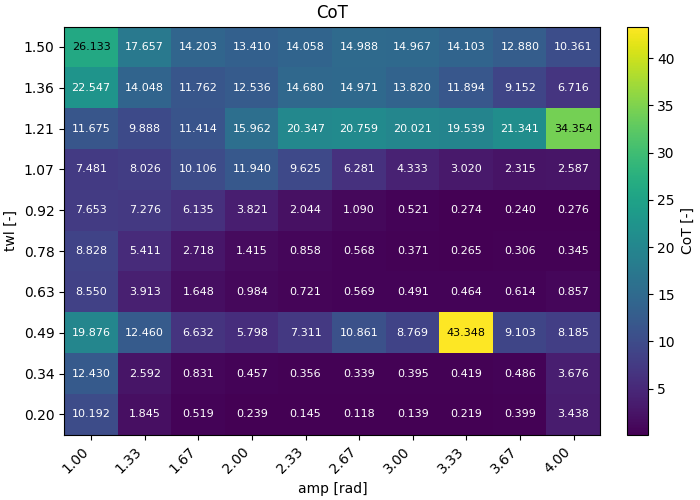
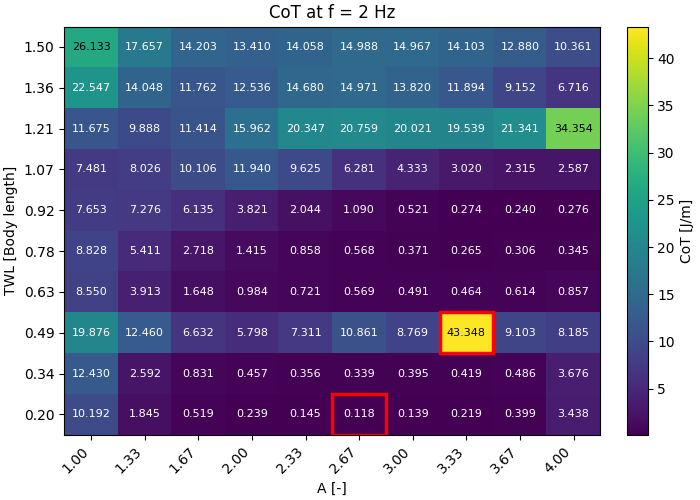
did a minor change in CPG controller to do the grid search and thus did some change in 2.1 and 2.2 and imporved the CoT calculation

diff --git a/Project1/Python/exercise2_2.py b/Project1/Python/exercise2_2.py
@@ -6,10 +6,12 @@ import h5py
 import numpy as np
 import matplotlib.pyplot as plt
 from matplotlib import colors
+from matplotlib.patches import Rectangle
 
 from farms_core import pylog
 
 from cmc_controllers.metrics import (
+    get_filtered_signals,
     compute_mechanical_energy_and_cot,
     compute_mechanical_speed,
     compute_trajectory_curvature,
@@ -54,8 +56,9 @@ def load_metrics_from_hdf5(hdf5_path):
     #added by Matt
     CoM_traj = links_positions.mean(axis=1)
     timestep = sim_times[1]-sim_times[0]
+    CoM_traj_filtered = get_filtered_signals(CoM_traj, signal_dt=timestep, fcut_lp=0.5)
     
-    curvature_mean = compute_trajectory_curvature(trajectory=CoM_traj, timestep=timestep)
+    curvature_mean = compute_trajectory_curvature(trajectory=CoM_traj_filtered, timestep=timestep)
 
     return speed_forward, speed_lateral, cot, CoM_traj, curvature_mean
 
@@ -98,13 +101,13 @@ def exercise2_2(**kwargs):
     }
     
 
-    '''run_multiple(
+    run_multiple(
         max_workers=MAX_WORKERS,
         controller=base_controller,
         base_path=BASE_PATH,
         parameter_grid=parameter_grid_example,
         common_kwargs={'fast': True, 'headless': True},
-    )'''
+    )
     
     drive_range_2 = np.linspace(2.0,4.0,9)
     parameter_grid_example_2 = {
@@ -112,13 +115,13 @@ def exercise2_2(**kwargs):
         'drive_left': drive_range_2
     }
     
-    '''run_multiple(
+    run_multiple(
         max_workers=MAX_WORKERS,
         controller=base_controller,
         base_path=BASE_PATH,
         parameter_grid=parameter_grid_example_2,
         common_kwargs={'fast': True, 'headless': True},
-    )'''
+    )
 
     plot = kwargs.pop('plot', False)
     if plot:
@@ -160,7 +163,7 @@ def exercise2_2(**kwargs):
         # ---- Heatmaps (same palette + value in each square) ----
         shared_cmap = "viridis"
 
-        def plot_annotated_heatmap(grid, x_vals, y_vals, title, xlabel, ylabel, cbar_label, fmt=".3f"):
+        def plot_annotated_heatmap(grid, x_vals, y_vals, title, xlabel, ylabel, cbar_label, fmt=".3f", frame_abs_min=False):
             fig, ax = plt.subplots(figsize=(7, 6), constrained_layout=True)
             im = ax.imshow(grid, origin="lower", aspect="auto", cmap=shared_cmap)
 
@@ -179,6 +182,27 @@ def exercise2_2(**kwargs):
                     val = grid[i, j]
                     txt_color = "white" if norm(val) < 0.6 else "black"
                     ax.text(j, i, format(val, fmt), ha="center", va="center", color=txt_color, fontsize=8)
+
+            # Frame lowest and highest values
+            min_idx = np.unravel_index(np.nanargmin(grid), grid.shape)
+            max_idx = np.unravel_index(np.nanargmax(grid), grid.shape)
+
+            ax.add_patch(Rectangle(
+                (min_idx[1] - 0.5, min_idx[0] - 0.5), 1, 1,
+                fill=False, edgecolor="red", linewidth=2.5
+            ))
+            ax.add_patch(Rectangle(
+                (max_idx[1] - 0.5, max_idx[0] - 0.5), 1, 1,
+                fill=False, edgecolor="red", linewidth=2.5
+            ))
+
+            # Frame lowest absolute value if requested
+            if frame_abs_min:
+                abs_min_idx = np.unravel_index(np.nanargmin(np.abs(grid)), grid.shape)
+                ax.add_patch(Rectangle(
+                    (abs_min_idx[1] - 0.5, abs_min_idx[0] - 0.5), 1, 1,
+                    fill=False, edgecolor="red", linewidth=2.5
+                ))
 
             cbar = fig.colorbar(im, ax=ax)
             cbar.set_label(cbar_label)
@@ -204,10 +228,10 @@ def exercise2_2(**kwargs):
             cot_grid,
             x_vals=unique_PL,
             y_vals=unique_drive,
-            title="Cost of Transport [-]",
+            title="Cost of Transport [J/m]",
             xlabel="phase lag [rad]",
             ylabel="drive [-]",
-            cbar_label="CoT [-]",
+            cbar_label="CoT [J/m]",
             fmt=".3f",
         )
 
@@ -221,11 +245,12 @@ def exercise2_2(**kwargs):
             mean_curvature_grid,
             x_vals=unique_drive_left,
             y_vals=unique_drive_right,
-            title="Mean curvature [1/m]",
+            title=r"Mean curvature [$m^{-1}$]",
             xlabel="drive left [-]",
             ylabel="drive right [-]",
-            cbar_label="mean curvature [1/m]",
+            cbar_label=r"Mean curvature [$m^{-1}$]",
             fmt=".3f",
+            frame_abs_min=True,
         )
 
         # Grid of CoM trajectories (one subplot per drive_right/drive_left pair)
@@ -257,7 +282,7 @@ def exercise2_2(**kwargs):
         for j in range(len(unique_drive_right), 9):
             axes[j].axis("off")
 
-        fig3.suptitle("CoM trajectories grouped by drive right (x,y in [m])", y=1.02)
+        fig3.suptitle("CoM trajectories grouped by drive right (x,y in [m])", y=0.98)
         plt.tight_layout()
 
         plt.show()

diff --git a/Project1/Python/exercise1_2.py b/Project1/Python/exercise1_2.py
@@ -7,6 +7,7 @@ import numpy as np
 import h5py
 import matplotlib.pyplot as plt
 import matplotlib.colors as colors
+from matplotlib.patches import Rectangle
 
 from farms_core import pylog
 
@@ -168,8 +169,8 @@ def exercise1_2(**kwargs):
         im = ax.imshow(grid, origin='lower', aspect='auto', cmap=cmap)
 
         ax.set_title(title)
-        ax.set_xlabel('amp [rad]')
-        ax.set_ylabel('twl [-]')
+        ax.set_xlabel('A [-]')
+        ax.set_ylabel('TWL [Body length]')
 
         # Show actual parameter values on axes
         ax.set_xticks(np.arange(len(amp_axis)))
@@ -186,17 +187,34 @@ def exercise1_2(**kwargs):
                 ax.text(j, i, format(val, value_fmt),
                         ha='center', va='center', color=txt_color, fontsize=8)
 
+        # Frame lowest and highest values
+        min_idx = np.unravel_index(np.nanargmin(grid), grid.shape)
+        max_idx = np.unravel_index(np.nanargmax(grid), grid.shape)
+
+        ax.add_patch(Rectangle(
+            (min_idx[1] - 0.5, min_idx[0] - 0.5), 1, 1,
+            fill=False, edgecolor='red', linewidth=2.5
+        ))
+        ax.add_patch(Rectangle(
+            (max_idx[1] - 0.5, max_idx[0] - 0.5), 1, 1,
+            fill=False, edgecolor='red', linewidth=2.5
+        ))
+
         cbar = fig.colorbar(im, ax=ax)
         cbar.set_label(cbar_label)
 
     plot_annotated_heatmap(
-        forward_speed_grid, 'Forward speed', shared_cmap, 'speed [m/s]', value_fmt=".3f"
+        forward_speed_grid, 'Forward speed at f = 2 Hz', shared_cmap, 'Forward speed [m/s]', value_fmt=".3f"
     )
     plot_annotated_heatmap(
-        cot_grid, 'CoT', shared_cmap, 'CoT [-]', value_fmt=".3f"
+        cot_grid, 'CoT at f = 2 Hz', shared_cmap, 'CoT [J/m]', value_fmt=".3f"
     )
     plot_annotated_heatmap(
-        ipls_grid, 'Average IPLS', shared_cmap, 'IPLS [rad]', value_fmt=".3f"
+        ipls_grid,
+        r'Average $IPL_{neur}$ at f = 2 Hz',
+        shared_cmap,
+        r'Average $IPL_{neur}$ [rad]',
+        value_fmt=".3f"
     )
 
     plt.show()

diff --git a/Project1/Python/cmc_controllers/metrics.py b/Project1/Python/cmc_controllers/metrics.py
@@ -336,8 +336,8 @@ def compute_mechanical_energy_and_cot(times: np.ndarray,
     dt = times[1]-times[0]  # we assume that the dt is constant, which is ok
     Power = np.maximum(joints_torques * joints_velocities, 0)
     energy = dt * np.sum(Power)
-    com_final = np.sum(links_positions[-1, :, 0] * LINKS_MASSES) / TOTAL_MASS
-    com_initial = np.sum(links_positions[0, :, 0] * LINKS_MASSES) / TOTAL_MASS
-    Dfwd = np.abs(com_final - com_initial)
+    com_final = np.sum(links_positions[-1, :, :2] * LINKS_MASSES[:, None], axis=0) / TOTAL_MASS
+    com_initial = np.sum(links_positions[0, :, :2] * LINKS_MASSES[:, None], axis=0) / TOTAL_MASS
+    Dfwd = np.linalg.norm(com_final - com_initial)
     cot = energy / Dfwd if Dfwd > 0 else np.inf
     return energy, cot

diff --git a/Project1/Python/cmc_controllers/CPG_controller.py b/Project1/Python/cmc_controllers/CPG_controller.py
@@ -122,7 +122,7 @@ class CPGNetwork(NeuralNetwork):
             self.nominal_frequencies[1:self.n_oscillators:2] = 0
             self.nominal_amplitudes[1:self.n_oscillators:2] = 0
 
-        self.phase_bias = (2*np.pi / self.n_body_joints) * np.ones((self.n_oscillators, self.n_oscillators))
+        self.phase_bias = self.PL * np.ones((self.n_oscillators, self.n_oscillators))
 
     def motor_output(self, phase, amplitude):
         #pylog.warning("TODO 2.1 CPG motor output implementation")

diff --git a/Project1/Python/exercise2_1.py b/Project1/Python/exercise2_1.py
@@ -171,7 +171,7 @@ def main(**kwargs):
             'offset_amp': np.ones(8) * 0.5,
             'G_freq': np.ones(8) * 0.5,
             'G_amp': np.ones(8) * 0.25,
-            'PL': np.ones(7) * np.pi * 2 / 8,
+            'PL': np.pi * 2 / 8,
             'coupling_weights_rostral': 5,
             'coupling_weights_caudal': 5,
             'coupling_weights_contra': 10,
